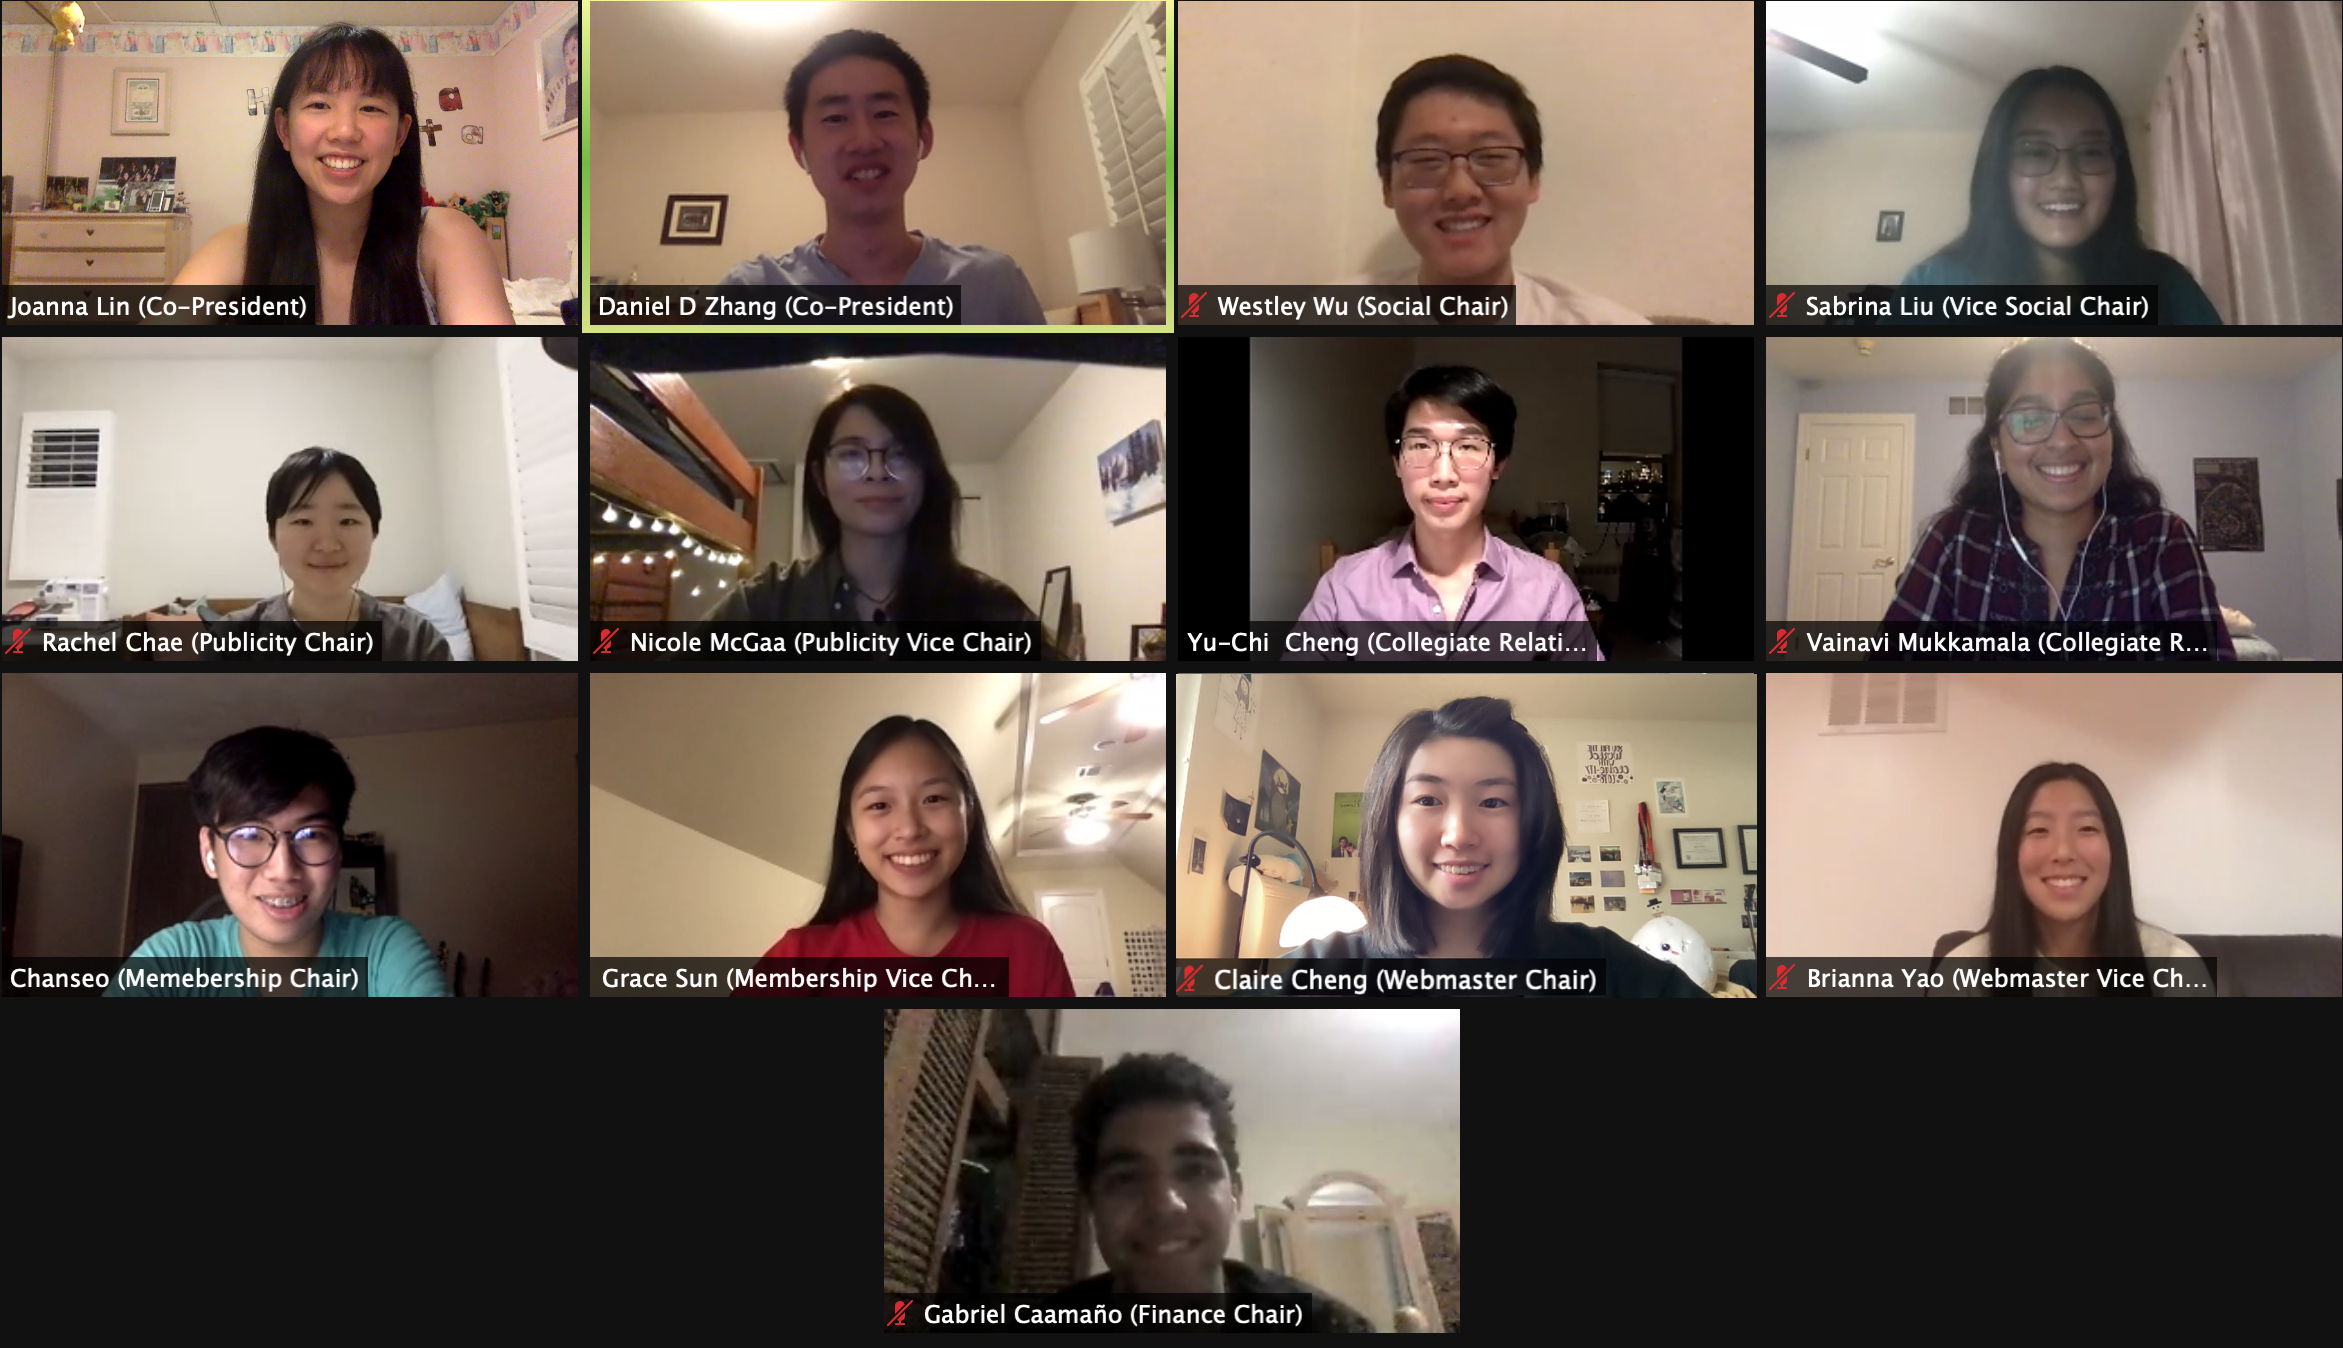
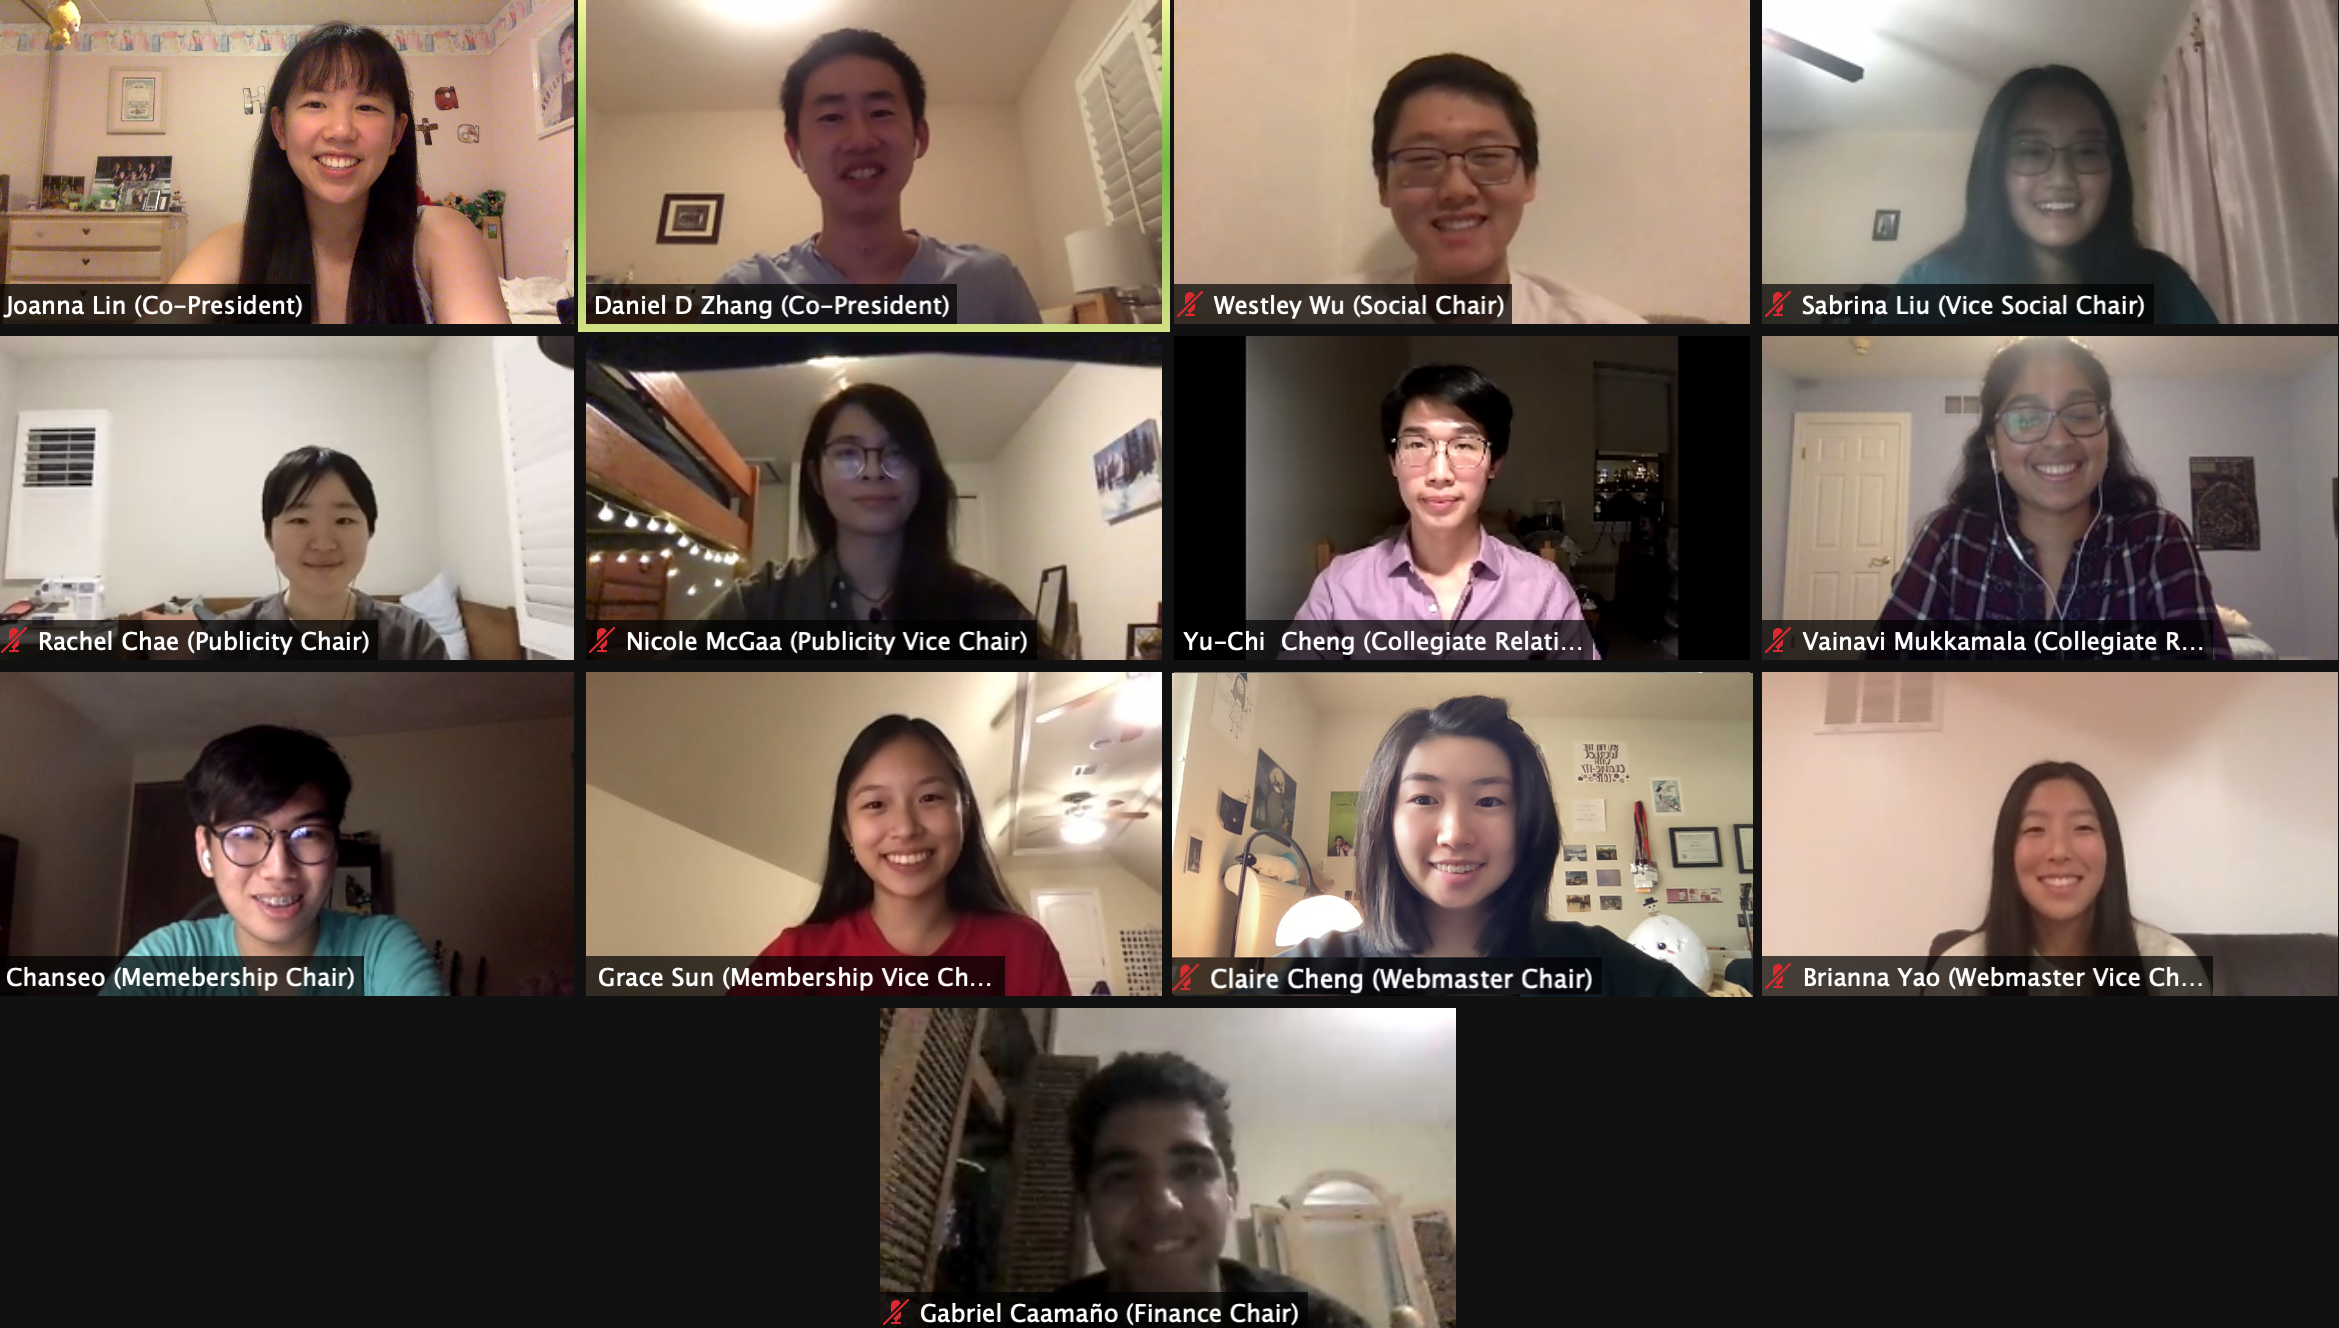
made home pic larger

diff --git a/style.css b/style.css
@@ -303,28 +303,28 @@ h6 {
   width: 60vw;
   margin-left: 20vw;
   margin-bottom: 5vh;
-  display: flex;
+  /* display: flex;
   justify-content: center;
   align-items: center;
-  gap: 5vw;
+  gap: 5vw; */
   flex-wrap: wrap;
 }
 
 .welcomeText {
-  text-align: left;
-  min-width: 200px;
-  width: 30vw;
+  text-align: center;
 }
 
-@media (max-width: 800px) {
+/* @media (max-width: 800px) {
   .welcomeText {
     text-align: center;
   }
-}
+} */
 
 .welcomeImage img {
   min-width: 200px;
-  width: 25vw;
+  width: 50vw;
+  margin-left: 5vw;
+  padding-top: 5vh;
   height: auto;
 }
 
